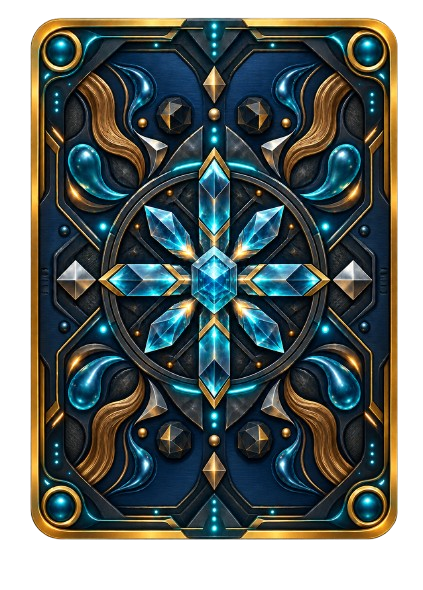
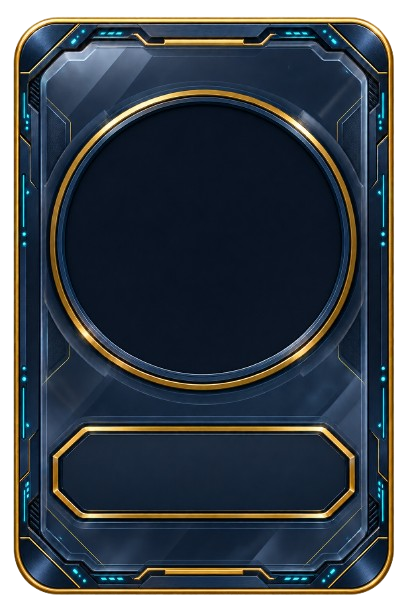
Add files via upload

diff --git a/src/pages/HostPage.tsx b/src/pages/HostPage.tsx
@@ -204,6 +204,6 @@ export function HostPage() {
     {!state.resultsRevealed ? <section className="host-main-grid"><article className="panel"><div className="section-heading"><div><span className="label">PRIVATE PLAYER STATUS</span><h2>실시간 독점 현황</h2></div><div className="private-heading-actions"><span className="muted">교사 화면 전용 · 거래 성공 {state.trades.filter((trade) => trade.status === 'success').length}건</span>{state.phase === 'setup' && <button className="resource-refresh-button" onClick={refreshResources}>↻ 자원 새로 고침</button>}</div></div><TeamGrid state={state} revealCards /></article><aside className="panel"><div className="section-heading"><div><span className="label">LIVE OPERATIONS</span><h2>운영 기록</h2></div></div><LogPanel logs={logs} /></aside></section>
       : <section className="result-log-layout"><article className="panel"><div className="section-heading"><div><span className="label">GAME OPERATIONS</span><h2>게임 운영 과정 로그</h2></div></div><LogPanel logs={logs} /></article><aside className="panel final-result-panel decorated-results"><div className="section-heading result-heading"><h2>순위 공개</h2></div><p className="score-formula-guide">점수 = 최고 자원 완성률(반올림) − 폭탄 수 × 15점 · 독점 성공자는 1위 고정</p><div className="ranking-table detailed">{state.rankings?.map((rank) => { const rate = Math.round(rank.completionRate * 100); return <div key={rank.playerId}>{rank.rank <= 3 ? <b className={`top-rank rank-${rank.rank}`}>{rank.rank}위</b> : <span className="rank-emblem"><img src={images.ui.rank} alt="" /><b>{rank.rank}</b></span>}<span>{state.players.find((player) => player.id === rank.playerId)?.name}</span><span className="ranking-resource"><img src={resourceIcon(rank.targetType)} alt="" />{rank.targetLabel} {rank.targetCount}/{rank.requiredCount}</span><span>{rate} − ({rank.bombCount}×15)</span><strong>{rank.score}점</strong></div> })}</div></aside></section>}
 
-    <section className="panel diagnostics"><div className="section-heading"><div><span className="label">CONNECTION STATUS</span><h2>거래소 연결 상태</h2></div><span className="muted">연결된 거래소에는 점검 신호를 보냅니다. 끊긴 거래소는 화면 복귀 시 자동 복구됩니다.</span></div><div className="station-list">{[1,2,3].map((slot) => { const station = stations.find((item) => item.slot === slot); return <div className="station-row safe" key={slot}><b>{slot}번 거래소</b>{station ? <><StatusDot status={station.connection} /><span>{station.connection === 'connected' ? station.busy ? '이용 중' : '이용 가능' : '자동 복구 대기'}</span><span>RTT {station.latencyMs ?? '—'}ms</span><button disabled={station.connection !== 'connected'} onClick={() => requestReconnect(station.stationId, slot)}>{station.connection === 'connected' ? '연결 점검 요청' : '자동 복구 대기'}</button></> : <><span className="muted">연결 대기</span><span /><span /><button disabled>연결 대기</button></>}</div> })}</div></section>
+    <section className="panel diagnostics"><div className="section-heading"><div><span className="label">CONNECTION STATUS</span><h2>거래소 연결 상태</h2></div><span className="muted">연결이 불안정하면 하단의 ‘연결 점검 요청’을 클릭해 보세요. 완전히 끊긴 거래소는 화면 복귀 시 자동 복구됩니다.</span></div><div className="station-list">{[1,2,3].map((slot) => { const station = stations.find((item) => item.slot === slot); return <div className="station-row safe" key={slot}><b>{slot}번 거래소</b>{station ? <><StatusDot status={station.connection} /><span>{station.connection === 'connected' ? station.busy ? '이용 중' : '이용 가능' : '자동 복구 대기'}</span><span>RTT {station.latencyMs ?? '—'}ms</span><button disabled={station.connection !== 'connected'} onClick={() => requestReconnect(station.stationId, slot)}>{station.connection === 'connected' ? '연결 점검 요청' : '자동 복구 대기'}</button></> : <><span className="muted">연결 대기</span><span /><span /><button disabled>연결 대기</button></>}</div> })}</div></section>
   </main>
 }

diff --git a/src/styles.css b/src/styles.css
@@ -86,7 +86,7 @@ h2 { margin-bottom: 0; font-size: 1.15rem; }
 .station-page, .host-page, .setup-page, .info-page { position: relative; isolation: isolate; }.station-page { max-width: 1100px; min-height: 100vh; }.station-page::before, .host-page::before, .setup-page::before, .info-page::before { content: ''; position: fixed; inset: 0; z-index: -1; background-position: center; background-size: cover; background-attachment: fixed; }.station-page::before { background-image: linear-gradient(#050c17c9, #050c17e8), url('/assets/images/backgrounds/bg-station.webp'); }.host-page::before { background-image: linear-gradient(#050c17d9, #050c17ec), url('/assets/images/backgrounds/bg-host.webp'); }.setup-page::before, .info-page::before { background-image: linear-gradient(#050c17d2, #050c17eb), url('/assets/images/backgrounds/bg-setup.webp'); }
 .station-identity { display: flex; align-items: center; gap: 14px; }.station-badge { position: relative; width: 64px; height: 64px; display: grid; place-items: center; flex: 0 0 auto; }.station-badge img { position: absolute; inset: 0; width: 100%; height: 100%; object-fit: contain; }.station-badge b { position: relative; z-index: 1; color: #fff2b4; font-size: 1.4rem; text-shadow: 0 0 12px #ffc64e; }
 .station-page > .panel { margin-bottom: 16px; }
-.station-diagnostics { display: flex; flex-wrap: wrap; align-items: center; gap: 8px; margin-bottom: 12px; }.station-diagnostics button { min-height: 38px; }.station-diagnostics span { display: flex; align-items: center; gap: 7px; color: var(--muted); font-size: .8rem; font-weight: 800; }.station-diagnostics > span:first-of-type { margin-left: auto; }.station-diagnostics .wake-lock-state { padding: 7px 9px; border: 1px solid #43536b; border-radius: 999px; }.station-diagnostics .wake-lock-state.active { color: var(--green); border-color: #3f806f; background: #15382f; }.station-diagnostics small { flex: 1 0 100%; color: #8fa5c4; text-align: right; font-size: .72rem; }
+.station-diagnostics { display: flex; flex-wrap: wrap; align-items: center; gap: 8px; margin-bottom: 12px; }.station-diagnostics button { min-height: 38px; }.station-diagnostics span { display: flex; align-items: center; gap: 7px; color: var(--muted); font-size: .8rem; font-weight: 800; }.station-diagnostics > span:first-of-type { margin-left: auto; }.station-diagnostics .wake-lock-state { padding: 7px 9px; border: 1px solid #43536b; border-radius: 999px; }.station-diagnostics .wake-lock-state.active { color: var(--green); border-color: #3f806f; background: #15382f; }.station-diagnostics small { flex: 1 0 100%; color: #8fa5c4; text-align: right; font-size: .72rem; }.station-diagnostics .station-reconnect-hint { flex: 0 1 auto; color: #c8d7eb; text-align: left; }.station-reconnect-hint b { color: #ffe19a; }
 .player-picker { text-align: center; padding: 14px 0 28px; }.player-picker > p { color: var(--muted); }.player-list { display: grid; grid-template-columns: repeat(3, 1fr); gap: 10px; margin-top: 22px; }.player-list button { min-height: 58px; background: #142842; border-color: #3e5b82; font-size: .95rem; }
 .sr-only { position: absolute; width: 1px; height: 1px; padding: 0; margin: -1px; overflow: hidden; clip: rect(0,0,0,0); white-space: nowrap; border: 0; }
 .secondary { background: transparent; }
@@ -157,7 +157,7 @@ h2 { margin-bottom: 0; font-size: 1.15rem; }
   .results-grid > div:last-child { grid-column: span 2; }
   .large-card-grid { grid-template-columns: repeat(2, 1fr); }
   .claim-controls { grid-template-columns: 1fr; }
-  .player-list { grid-template-columns: repeat(2, 1fr); }.station-diagnostics span, .station-diagnostics small { display: none; }.confirm-modal > div { grid-template-columns: 1fr; }
+  .player-list { grid-template-columns: repeat(2, 1fr); }.station-diagnostics span, .station-diagnostics small:not(.station-reconnect-hint) { display: none; }.station-diagnostics .station-reconnect-hint { display: block; flex-basis: 100%; }.confirm-modal > div { grid-template-columns: 1fr; }
   .claim-row { align-items: stretch; flex-direction: column; }.claim-row div button { flex: 1; }
 }
 

diff --git a/src/pages/StationPage.tsx b/src/pages/StationPage.tsx
@@ -256,7 +256,7 @@ export function StationPage() {
   const currentSide = stage === 'select-a-cards' ? 'A' : 'B'
 
   return <main className="app-shell station-page">
-    <section className="station-diagnostics"><button onClick={runNetworkTest}>네트워크 진단</button><button onClick={forceReconnect}>재연결</button><span><StatusDot status={connection} />{connection === 'connected' ? '연결됨' : connection === 'connecting' ? '연결 중' : '연결 안 됨'}</span>{'wakeLock' in navigator && <span className={`wake-lock-state ${wakeLockActive ? 'active' : ''}`}>{wakeLockActive ? '화면 꺼짐 방지 ON' : '화면 꺼짐 방지 대기'}</span>}<small>다른 앱이나 화면 잠금 뒤 돌아오면 저장된 방으로 자동 복구됩니다.</small></section>
+    <section className="station-diagnostics"><button onClick={runNetworkTest}>네트워크 진단</button><button onClick={forceReconnect}>재연결</button><small className="station-reconnect-hint">교사 운영 페이지와 연결이 끊어졌을 경우 <b>‘재연결’</b> 버튼을 클릭해 주세요.</small><span><StatusDot status={connection} />{connection === 'connected' ? '연결됨' : connection === 'connecting' ? '연결 중' : '연결 안 됨'}</span>{'wakeLock' in navigator && <span className={`wake-lock-state ${wakeLockActive ? 'active' : ''}`}>{wakeLockActive ? '화면 꺼짐 방지 ON' : '화면 꺼짐 방지 대기'}</span>}<small>다른 앱이나 화면 잠금 뒤 돌아오면 저장된 방으로 자동 복구됩니다.</small></section>
     <header className="topbar station-topbar"><div className="station-identity"><span className="station-badge"><img src={images.ui.station} alt="" /><b>{slot ?? '·'}</b></span><div><p className="eyebrow">ROOM {activeRoom}</p><h1>{slot ? `${slot}번 거래소` : '거래소 연결 중'}</h1></div></div><div className="header-status"><StatusDot status={connection} /><span>{state.phase === 'active' ? '거래 가능' : state.phase === 'ended' ? '시장 폐장' : '개장 대기'}</span></div></header>
     <div className={`notice sticky ${notice.kind}`}>{notice.text}</div>
 

diff --git a/README.md b/README.md
@@ -1,4 +1,15 @@
-# 독점게임 학급 에디션 v3.3.1
+# 독점게임 학급 에디션 v3.3.3
+
+## v3.3.3 재연결 안내 보강
+
+- 교사 운영 페이지에 `연결 점검 요청` 사용 시점과 완전 끊김 시 자동 복구 안내 추가
+- 거래소 페이지의 `재연결` 버튼 옆에 연결 끊김 시 직접 누를 수 있는 안내 문구 추가
+- 작은 화면에서도 거래소 재연결 안내가 숨겨지지 않도록 반응형 배치 적용
+
+## v3.3.2 카드 이미지 교정
+
+- 서로 뒤바뀌었던 `card-back.png`과 `card-frame-resource.png`를 실제 용도에 맞는 이미지로 교체
+- 카드 뒷면에는 비공개 장식 이미지, 자원 카드 프레임에는 아이콘·자원명 배치 영역이 있는 앞면 프레임 적용
 
 ## v3.3.1 이미지 자산 최적화
 
